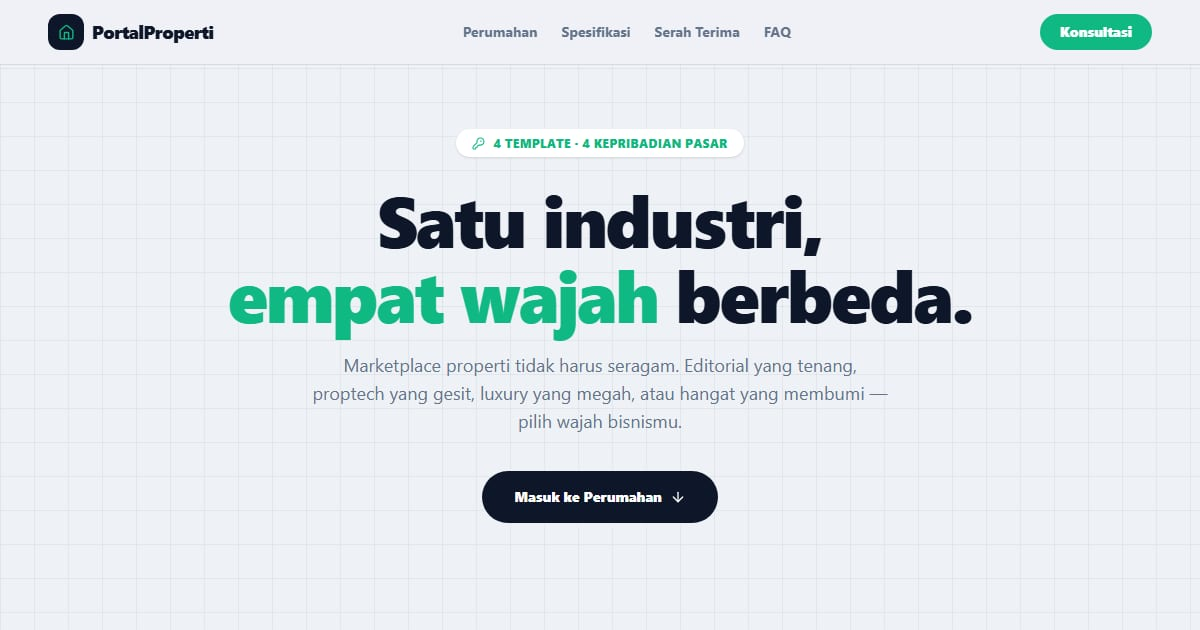
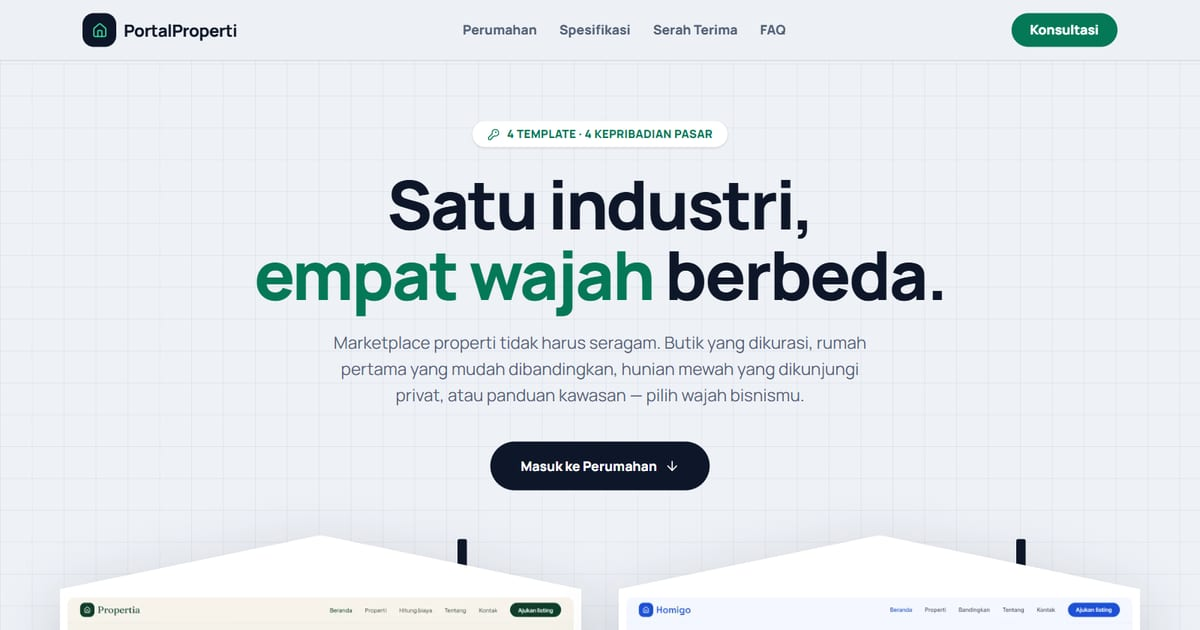
Perbarui katalog: pratinjau baru, halaman khas tiap varian, kontras
- Pratinjau 4 varian diambil ulang (WebP 16:10), PNG lama dihapus
- Deskripsi dan fitur mengikuti isi baru; tautan "Coba langsung" ke
  /biaya, /bandingkan, /kunjungan, dan /kawasan
- Spesifikasi dan FAQ jujur: jadwal survei menggantikan klaim tombol WA
  di tiap listing, klaim "80% pencari properti" dihapus
- Zamrud teks digelapkan (#047857) + varian terang untuk latar gelap;
  label pintu memakai warna teks per varian; font var ke <html>

diff --git a/app/page.js b/app/page.js
@@ -2,23 +2,23 @@
 import { useState } from 'react';
 import Image from 'next/image';
 import { motion } from 'framer-motion';
-import { Home, ArrowDown, ArrowUpRight, MessageCircle, KeyRound, Check, Search, LayoutList, ImageIcon, PhoneCall, Heart, Smartphone, ClipboardList, Hammer, ChevronDown } from 'lucide-react';
+import { Home, ArrowDown, ArrowUpRight, MessageCircle, KeyRound, Check, Search, LayoutList, ImageIcon, CalendarCheck, Calculator, Smartphone, ClipboardList, Hammer, ChevronDown } from 'lucide-react';
 import { templates } from './components/templates-data';
 
 const WA = 'https://wa.me/6281339908765?text=Halo%2C%20saya%20tertarik%20template%20marketplace%20properti%20di%20PortalProperti';
 
 const SPESIFIKASI = [
-  { icon: Search, title: 'Pencarian & Filter', desc: 'Cari berdasarkan lokasi, harga, tipe, dan luas — hasil instan tanpa reload.' },
-  { icon: LayoutList, title: 'Halaman Detail Listing', desc: 'Spesifikasi lengkap, harga, dan deskripsi yang tersusun rapi per properti.' },
-  { icon: ImageIcon, title: 'Galeri Properti', desc: 'Foto besar dan jernih — kesan pertama yang menjual sebelum survei.' },
-  { icon: PhoneCall, title: 'Kontak Agen Langsung', desc: 'Tombol WhatsApp di tiap listing; calon pembeli terhubung sekali ketuk.' },
-  { icon: Heart, title: 'Favorit & Bandingkan', desc: 'Pengunjung menyimpan pilihan dan membandingkan sebelum memutuskan.' },
-  { icon: Smartphone, title: 'Responsif Penuh', desc: 'Nyaman dijelajah dari ponsel — tempat 80% pencari properti berada.' },
+  { icon: Search, title: 'Pencarian & filter', desc: 'Status, jenis, kota, kamar, dan harga — rentang beli dan sewa dipisah, sewa tahunan disetarakan per bulan.' },
+  { icon: LayoutList, title: 'Detail listing', desc: 'Spesifikasi lengkap termasuk harga per m², peta tingkat kawasan, dan listing serupa.' },
+  { icon: ImageIcon, title: 'Galeri properti', desc: 'Foto besar dengan miniatur — kesan pertama yang menjual sebelum survei.' },
+  { icon: CalendarCheck, title: 'Jadwal survei', desc: 'Pengunjung memilih hari dan jam di halaman listing. Saat dipasang, bisa diteruskan ke WhatsApp, email, atau CRM.' },
+  { icon: Calculator, title: 'Halaman khas per wajah', desc: 'Kalkulator biaya beli, perbandingan listing, penyusun kunjungan, atau panduan kawasan.' },
+  { icon: Smartphone, title: 'Responsif penuh', desc: 'Diuji sampai lebar 360 px, termasuk tabel perbandingan dan formulir jadwal.' },
 ];
 
 const SERAH = [
   { icon: ClipboardList, no: '01', title: 'Survei Kebutuhan', desc: 'Ceritakan bisnismu: agen, developer, atau listing pribadi.' },
-  { icon: Home, no: '02', title: 'Pilih Blok', desc: 'Tentukan wajah yang pas — editorial, proptech, luxury, atau hangat.' },
+  { icon: Home, no: '02', title: 'Pilih Blok', desc: 'Tentukan wajah yang pas — butik, rumah pertama, mewah, atau kawasan.' },
   { icon: Hammer, no: '03', title: 'Renovasi', desc: 'Kami pasang logo, warna, dan data listing-mu ke dalam template.' },
   { icon: KeyRound, no: '04', title: 'Serah Terima Kunci', desc: 'Website live + akses penuh jadi milikmu. Garansi tetap berjalan.' },
 ];
@@ -27,7 +27,7 @@ const TANYA = [
   { q: 'Bisakah saya mengelola listing sendiri setelah jadi?', a: 'Bisa. Data listing tersimpan terstruktur dan mudah diubah — kami sertakan panduan menambah/mengubah properti. Kalau mau, kami juga bisa bantu kelola.' },
   { q: 'Berapa banyak listing yang bisa ditampung?', a: 'Tidak ada batasan dari sisi template. Puluhan hingga ratusan listing tetap cepat karena halaman dibangun dengan Next.js yang ringan.' },
   { q: 'Apakah cocok untuk agen perorangan, bukan perusahaan?', a: 'Sangat cocok. Template "hangat" dan "editorial" justru dirancang untuk kesan personal — pembeli merasa bicara dengan orang, bukan korporasi.' },
-  { q: 'Bagaimana calon pembeli menghubungi saya?', a: 'Setiap listing punya tombol WhatsApp/telepon yang mengarah langsung ke nomormu, lengkap dengan pesan otomatis berisi nama properti yang diminati.' },
+  { q: 'Bagaimana calon pembeli menghubungi saya?', a: 'Di demo, setiap listing punya formulir jadwal survei yang hanya menampilkan ringkasan. Saat dipasang untuk bisnismu, formulir itu kami arahkan ke WhatsApp, email, atau sistem yang kamu pakai — lengkap dengan nama properti dan jadwal yang dipilih.' },
 ];
 
 export default function PortalProperti() {
@@ -38,7 +38,7 @@ export default function PortalProperti() {
       <header className="sticky top-0 z-40 border-b border-slatep/10 bg-kabut/90 backdrop-blur-xl">
         <nav className="mx-auto flex max-w-6xl items-center justify-between px-4 py-3.5 sm:px-6">
           <a href="#top" className="flex items-center gap-2 text-lg font-extrabold tracking-tight">
-            <span className="grid h-9 w-9 place-items-center rounded-xl bg-slatep text-zamrud"><Home size={17} /></span>
+            <span className="grid h-9 w-9 place-items-center rounded-xl bg-slatep text-zamrud-terang"><Home size={17} /></span>
             PortalProperti
           </a>
           <div className="hidden items-center gap-6 text-sm font-bold text-mutedp md:flex" role="navigation" aria-label="Navigasi">
@@ -63,7 +63,7 @@ export default function PortalProperti() {
             Satu industri,<br /><span className="text-zamrud">empat wajah</span> berbeda.
           </h1>
           <p className="mx-auto mt-5 max-w-xl text-lg text-mutedp">
-            Marketplace properti tidak harus seragam. Editorial yang tenang, proptech yang gesit, luxury yang megah, atau hangat yang membumi — pilih wajah bisnismu.
+            Marketplace properti tidak harus seragam. Butik yang dikurasi, rumah pertama yang mudah dibandingkan, hunian mewah yang dikunjungi privat, atau panduan kawasan — pilih wajah bisnismu.
           </p>
           <a href="#koleksi" className="mt-9 inline-flex items-center gap-2 rounded-full bg-slatep px-8 py-4 text-sm font-extrabold text-white transition hover:bg-zamrud">
             Masuk ke Perumahan <ArrowDown size={16} />
@@ -83,16 +83,16 @@ export default function PortalProperti() {
               transition={{ duration: 0.55, delay: (i % 2) * 0.1, ease: [0.22, 1, 0.36, 1] }}
               className="group"
             >
-              <a href={t.url} aria-label={`Lihat template ${t.name}`} className="block">
+              <a href={t.url} aria-label={`Buka demo ${t.name}`} className="block">
                 <div className="rumah-wrap relative">
                   <span className="cerobong" aria-hidden="true" />
                   <div className="rumah relative bg-white p-2 pt-[12%]">
                     <div className="relative aspect-[16/10] overflow-hidden rounded-lg">
-                      <Image src={t.image} alt={`Preview ${t.name}`} fill sizes="(max-width:768px) 100vw, 50vw" className="object-cover object-top" priority={i < 2} />
+                      <Image src={t.image} alt="" fill sizes="(max-width:768px) 100vw, 50vw" className="object-cover object-top" priority={i < 2} />
                     </div>
                   </div>
                   {/* Pintu label */}
-                  <span className="absolute bottom-0 left-1/2 -translate-x-1/2 rounded-t-xl px-5 py-2 text-xs font-extrabold uppercase tracking-wide text-white" style={{ background: t.warna }}>
+                  <span className="absolute bottom-0 left-1/2 -translate-x-1/2 rounded-t-xl px-5 py-2 text-xs font-extrabold uppercase tracking-wide" style={{ background: t.warna, color: t.teks }}>
                     {t.gaya}
                   </span>
                 </div>
@@ -106,13 +106,19 @@ export default function PortalProperti() {
                 <ul className="mt-4 space-y-2">
                   {t.fitur.map((f) => (
                     <li key={f} className="flex items-start gap-2.5 text-sm font-semibold">
-                      <span className="mt-0.5 grid h-5 w-5 shrink-0 place-items-center rounded-full text-white" style={{ background: t.warna }}><Check size={11} strokeWidth={3.5} /></span>
+                      <span className="mt-0.5 grid h-5 w-5 shrink-0 place-items-center rounded-full" style={{ background: t.warna, color: t.teks }}><Check size={11} strokeWidth={3.5} /></span>
                       {f}
                     </li>
                   ))}
                 </ul>
+                <p className="mt-5 text-xs font-extrabold uppercase tracking-widest text-mutedp">Coba langsung</p>
+                <ul className="mt-2 flex flex-wrap gap-2">
+                  {t.halaman.map(([href, label]) => (
+                    <li key={href}><a href={t.url + href} className="inline-flex items-center gap-1 rounded-full border border-slatep/15 bg-white px-3 py-1.5 text-sm font-bold transition hover:border-zamrud hover:text-zamrud">{label} <ArrowUpRight size={13} /></a></li>
+                  ))}
+                </ul>
                 <a href={WA} target="_blank" rel="noopener noreferrer" className="mt-5 inline-flex items-center gap-1.5 text-sm font-extrabold text-zamrud underline-offset-4 hover:underline">
-                  Pesan template ini <ArrowUpRight size={15} />
+                  Pesan template {t.name} <ArrowUpRight size={15} />
                 </a>
               </div>
             </motion.article>
@@ -138,7 +144,7 @@ export default function PortalProperti() {
                 transition={{ duration: 0.45, delay: (i % 3) * 0.08 }}
                 className="rounded-2xl border border-slatep/10 bg-kabut p-6 transition hover:-translate-y-1 hover:shadow-lg"
               >
-                <span className="grid h-11 w-11 place-items-center rounded-xl bg-slatep text-zamrud"><s.icon size={20} /></span>
+                <span className="grid h-11 w-11 place-items-center rounded-xl bg-slatep text-zamrud-terang"><s.icon size={20} /></span>
                 <h3 className="mt-4 text-lg font-extrabold">{s.title}</h3>
                 <p className="mt-1.5 text-sm leading-relaxed text-mutedp">{s.desc}</p>
               </motion.div>
@@ -165,7 +171,7 @@ export default function PortalProperti() {
                 transition={{ duration: 0.45, delay: i * 0.1 }}
                 className="relative text-center"
               >
-                <span className="relative z-10 mx-auto grid h-14 w-14 place-items-center rounded-2xl bg-slatep text-zamrud shadow-lg"><s.icon size={22} /></span>
+                <span className="relative z-10 mx-auto grid h-14 w-14 place-items-center rounded-2xl bg-slatep text-zamrud-terang shadow-lg"><s.icon size={22} /></span>
                 <p className="mt-3 text-xs font-extrabold uppercase tracking-widest text-zamrud">Langkah {s.no}</p>
                 <h3 className="mt-1 text-lg font-extrabold">{s.title}</h3>
                 <p className="mx-auto mt-1.5 max-w-[15rem] text-sm leading-relaxed text-mutedp">{s.desc}</p>
@@ -187,7 +193,7 @@ export default function PortalProperti() {
               const open = buka === i;
               return (
                 <div key={t.q} className={`rounded-2xl border bg-kabut transition ${open ? 'border-zamrud shadow-md' : 'border-slatep/10'}`}>
-                  <button onClick={() => setBuka(open ? -1 : i)} aria-expanded={open} className="flex w-full items-center justify-between gap-4 px-6 py-4 text-left">
+                  <button type="button" onClick={() => setBuka(open ? -1 : i)} aria-expanded={open} className="flex w-full items-center justify-between gap-4 px-6 py-4 text-left">
                     <span className="text-base font-extrabold leading-snug">{t.q}</span>
                     <span className={`grid h-7 w-7 shrink-0 place-items-center rounded-full transition ${open ? 'rotate-180 bg-zamrud text-white' : 'bg-slatep/10 text-slatep'}`}>
                       <ChevronDown size={15} />
@@ -210,14 +216,14 @@ export default function PortalProperti() {
         <motion.div initial={{ opacity: 0, y: 16 }} whileInView={{ opacity: 1, y: 0 }} viewport={{ once: true }} transition={{ duration: 0.55 }} className="mx-auto max-w-xl">
           <span className="mx-auto grid h-14 w-14 place-items-center rounded-2xl bg-zamrud"><KeyRound size={24} /></span>
           <h2 className="mt-6 text-3xl font-extrabold leading-tight md:text-4xl">Kuncinya sudah di tangan kami.</h2>
-          <p className="mt-3 text-white/60">Pilih wajah yang pas untuk bisnismu — kami serahkan kuncinya dalam hitungan hari.</p>
+          <p className="mt-3 text-white/75">Pilih wajah yang pas untuk bisnismu — kami pasang logo, warna, dan listing-mu ke dalamnya.</p>
           <a href={WA} target="_blank" rel="noopener noreferrer" className="mt-8 inline-flex items-center gap-2 rounded-full bg-zamrud px-8 py-4 text-sm font-extrabold text-white transition hover:scale-[1.03] active:scale-95">
             <MessageCircle size={16} /> Chat WhatsApp
           </a>
         </motion.div>
       </section>
 
-      <footer className="border-t border-white/10 bg-slatep px-4 pb-6 pt-10 text-white/60">
+      <footer className="border-t border-white/10 bg-slatep px-4 pb-6 pt-10 text-white/75">
         <div className="mx-auto grid max-w-6xl grid-cols-1 gap-8 text-center sm:grid-cols-3 sm:text-left">
           <div>
             <p className="flex items-center justify-center gap-2 text-lg font-extrabold text-white sm:justify-start">
@@ -227,7 +233,7 @@ export default function PortalProperti() {
             <p className="mt-2 text-sm leading-relaxed">Empat wajah marketplace properti — pilih yang paling menyerupai bisnismu.</p>
           </div>
           <nav aria-label="Tautan footer" className="text-sm">
-            <p className="text-xs font-extrabold uppercase tracking-widest text-zamrud">Jelajahi</p>
+            <p className="text-xs font-extrabold uppercase tracking-widest text-zamrud-terang">Jelajahi</p>
             <ul className="mt-3 space-y-2">
               <li><a href="#koleksi" className="transition hover:text-white">Kompleks Template</a></li>
               <li><a href="#spesifikasi" className="transition hover:text-white">Spesifikasi</a></li>
@@ -236,14 +242,14 @@ export default function PortalProperti() {
             </ul>
           </nav>
           <div className="text-sm">
-            <p className="text-xs font-extrabold uppercase tracking-widest text-zamrud">Hubungi</p>
+            <p className="text-xs font-extrabold uppercase tracking-widest text-zamrud-terang">Hubungi</p>
             <ul className="mt-3 space-y-2">
               <li><a href={WA} target="_blank" rel="noopener noreferrer" className="transition hover:text-white">WhatsApp +62 813 3990 8765</a></li>
               <li><a href="https://pintuweb.com" target="_blank" rel="noopener noreferrer" className="transition hover:text-white">pintuweb.com</a></li>
             </ul>
           </div>
         </div>
-        <p className="mt-10 border-t border-white/10 pt-5 text-center text-xs text-white/40">
+        <p className="mt-10 border-t border-white/10 pt-5 text-center text-xs text-white/75">
           © {new Date().getFullYear()} PortalProperti · bagian dari PintuWeb — rumah untuk semua template.
         </p>
       </footer>

diff --git a/app/components/templates-data.js b/app/components/templates-data.js
@@ -1,26 +1,31 @@
+// Data 4 varian marketplace properti. `halaman` = halaman khas tiap varian.
 export const templates = [
   {
-    name: 'Propertia', gaya: 'Boutique Editorial',
-    description: 'Serif Fraunces, lengkung katedral, dan nuansa emerald-emas — marketplace rasa butik.',
-    image: '/images/p1.png', url: 'https://properti-propertia.vercel.app', warna: '#0f3d2e',
-    fitur: ['Hero editorial asimetris', 'Filter lengkap + detail listing', 'Peta & kontak agen WhatsApp'],
+    name: 'Propertia', gaya: 'Butik editorial',
+    description: 'Sedikit listing, semuanya sudah didatangi dan diukur ulang. Serif Fraunces, lengkung katedral, zamrud dan emas.',
+    image: '/images/properti/propertia.webp', url: 'https://properti-propertia.vercel.app', warna: '#0f3d2e', teks: '#ffffff',
+    fitur: ['Kalkulator dana tunai: uang muka, BPHTB, PPN, PPAT, biaya KPR', 'Contoh rincian biaya di beranda', 'Jadwal survei di tiap listing'],
+    halaman: [['/biaya', 'Hitung biaya beli'], ['/properti/1', 'Detail listing'], ['/tentang', 'Tentang']],
   },
   {
-    name: 'Homigo', gaya: 'PropTech Modern',
-    description: 'Biru elektrik, search bertab, dan kalkulator KPR interaktif — untuk generasi digital.',
-    image: '/images/p2.png', url: 'https://properti-homigo.vercel.app', warna: '#2563eb',
-    fitur: ['Search bertab Beli/Sewa/Baru', 'Kalkulator KPR slider', 'Rekomendasi ber-toggle'],
+    name: 'Homigo', gaya: 'Rumah pertama',
+    description: 'Untuk pembeli dan penyewa pertama: rumah terjangkau, apartemen, dan kost. Biru gaya aplikasi dengan Space Grotesk.',
+    image: '/images/properti/homigo.webp', url: 'https://properti-homigo.vercel.app', warna: '#1d4ed8', teks: '#ffffff',
+    fitur: ['Bandingkan 2–3 listing berdampingan', 'Cicilan vs sewa dalam ukuran per bulan', 'Filter beli dan sewa yang dipisah'],
+    halaman: [['/bandingkan?id=2,3', 'Bandingkan'], ['/properti?status=Disewakan', 'Listing sewa'], ['/properti/4', 'Detail kost']],
   },
   {
-    name: 'Lumora', gaya: 'Luxury Gallery',
-    description: 'Gelap, emas, dan sinematik — hero slideshow layar penuh dengan navbar yang berubah jadi pencarian.',
-    image: '/images/p3.png', url: 'https://properti-lumora.vercel.app', warna: '#c6a25c',
-    fitur: ['Slideshow properti full-screen', 'Navbar morph jadi search', 'Layanan kunjungan privat'],
+    name: 'Lumora', gaya: 'Hunian mewah',
+    description: 'Enam hunian di Bali dan Jakarta, tanpa open house. Gelap dan emas dengan Cormorant Garamond dan slideshow layar penuh.',
+    image: '/images/properti/lumora.webp', url: 'https://properti-lumora.vercel.app', warna: '#c6a25c', teks: '#13100b',
+    fitur: ['Penyusun hari kunjungan privat', 'Rute diurutkan dengan waktu tempuh terpendek', 'Slideshow yang bisa dijeda'],
+    halaman: [['/kunjungan', 'Susun kunjungan'], ['/properti/1', 'Villa Uluwatu'], ['/properti', 'Koleksi']],
   },
   {
-    name: 'Beranda', gaya: 'Hangat & Ramah',
-    description: 'Terracotta lembut dan pencarian berdasarkan suasana — cari rumah dengan hati.',
-    image: '/images/p4.png', url: 'https://properti-beranda.vercel.app', warna: '#c75d3c',
-    fitur: ['Cari berdasarkan suasana hidup', 'Sorotan kawasan per kota', 'Nuansa keluarga yang membumi'],
+    name: 'Beranda', gaya: 'Kawasan & tahap hidup',
+    description: 'Cari rumah dari kawasannya: untuk keluarga, mahasiswa, atau pensiunan. Terakota hangat dengan Bricolage Grotesque.',
+    image: '/images/properti/beranda.webp', url: 'https://properti-beranda.vercel.app', warna: '#b04e30', teks: '#ffffff',
+    fitur: ['Panduan kawasan lengkap dengan kekurangannya', 'Kisaran harga dihitung dari listing', 'Cari berdasarkan suasana'],
+    halaman: [['/kawasan', 'Panduan kawasan'], ['/kawasan/sanur-denpasar', 'Sanur'], ['/properti?q=pensiun', 'Untuk pensiun']],
   },
 ];

diff --git a/app/layout.js b/app/layout.js
@@ -3,12 +3,12 @@ import { Manrope } from 'next/font/google';
 
 const manrope = Manrope({ subsets: ['latin'], variable: '--font-manrope', weight: ['400', '600', '800'] });
 
-const __jsonld = {"@context":"https://schema.org","@type":"CollectionPage","name":"PortalProperti","description":"Koleksi 4 template marketplace properti","url":"https://portal-properti-nu.vercel.app","isPartOf":{"@type":"WebSite","name":"PintuWeb","url":"https://pintuweb.com"}};
+const __jsonld = {"@context":"https://schema.org","@type":"CollectionPage","name":"PortalProperti","description":"Koleksi 4 template marketplace properti: butik editorial, rumah pertama, hunian mewah, dan panduan kawasan","url":"https://portal-properti-nu.vercel.app","isPartOf":{"@type":"WebSite","name":"PintuWeb","url":"https://pintuweb.com"}};
 
 export const metadata = {
   metadataBase: new URL("https://portal-properti-nu.vercel.app"),
   title: "PortalProperti — Empat Wajah Marketplace Properti",
-  description: "PortalProperti: 4 template marketplace properti dengan kepribadian berbeda — editorial, proptech, luxury, dan hangat.",
+  description: "Empat template marketplace properti, masing-masing dengan halaman khas: kalkulator biaya beli, perbandingan listing, penyusun kunjungan privat, dan panduan kawasan.",
   applicationName: "PortalProperti",
   keywords: ["template marketplace properti", "website properti", "koleksi template properti"],
   authors: [{ name: "PortalProperti" }],
@@ -21,13 +21,13 @@ export const metadata = {
     url: "https://portal-properti-nu.vercel.app",
     siteName: "PortalProperti",
     title: "PortalProperti — Empat Wajah Marketplace Properti",
-    description: "PortalProperti: 4 template marketplace properti dengan kepribadian berbeda — editorial, proptech, luxury, dan hangat.",
+    description: "Empat template marketplace properti, masing-masing dengan halaman khas: kalkulator biaya beli, perbandingan listing, penyusun kunjungan privat, dan panduan kawasan.",
     images: [{ url: "/og.jpg", width: 1200, height: 630, alt: "PortalProperti — Empat Wajah Marketplace Properti" }],
   },
   twitter: {
     card: "summary_large_image",
     title: "PortalProperti — Empat Wajah Marketplace Properti",
-    description: "PortalProperti: 4 template marketplace properti dengan kepribadian berbeda — editorial, proptech, luxury, dan hangat.",
+    description: "Empat template marketplace properti, masing-masing dengan halaman khas: kalkulator biaya beli, perbandingan listing, penyusun kunjungan privat, dan panduan kawasan.",
     images: ["/og.jpg"],
   },
   robots: {
@@ -39,8 +39,8 @@ export const metadata = {
 
 export default function RootLayout({ children }) {
   return (
-    <html lang="id">
-      <body className={`${manrope.variable} antialiased`}>
+    <html lang="id" className={manrope.variable}>
+      <body className="antialiased">
         <main>{children}</main>
       <script type="application/ld+json" dangerouslySetInnerHTML={{ __html: JSON.stringify(__jsonld) }} />
         </body>

diff --git a/app/globals.css b/app/globals.css
@@ -6,8 +6,9 @@
 
   --color-slatep: #0e1729;
   --color-kabut: #eef1f6;
-  --color-zamrud: #10b981;
-  --color-mutedp: #64748b;
+  --color-zamrud: #047857;
+  --color-zamrud-terang: #34d399;
+  --color-mutedp: #526077;
 }
 
 html { scroll-behavior: smooth; }
@@ -24,7 +25,7 @@ h1, h2, h3 { font-family: var(--font-display); letter-spacing: -0.03em; }
 /* Kartu berbentuk rumah (atap segitiga) */
 .rumah { clip-path: polygon(50% 0, 100% 14%, 100% 100%, 0 100%, 0 14%); }
 .rumah-wrap { filter: drop-shadow(0 16px 30px rgba(14, 23, 41, 0.18)); transition: transform 0.3s cubic-bezier(0.22, 1, 0.36, 1), filter 0.3s; }
-.group:hover .rumah-wrap { transform: translateY(-8px); filter: drop-shadow(0 26px 40px rgba(16, 185, 129, 0.28)); }
+.group:hover .rumah-wrap { transform: translateY(-8px); filter: drop-shadow(0 26px 40px rgba(4, 120, 87, 0.28)); }
 
 /* Cerobong asap kecil */
 .cerobong { position: absolute; top: 1%; right: 22%; width: 10px; height: 9%; background: var(--color-slatep); border-radius: 2px 2px 0 0; }
